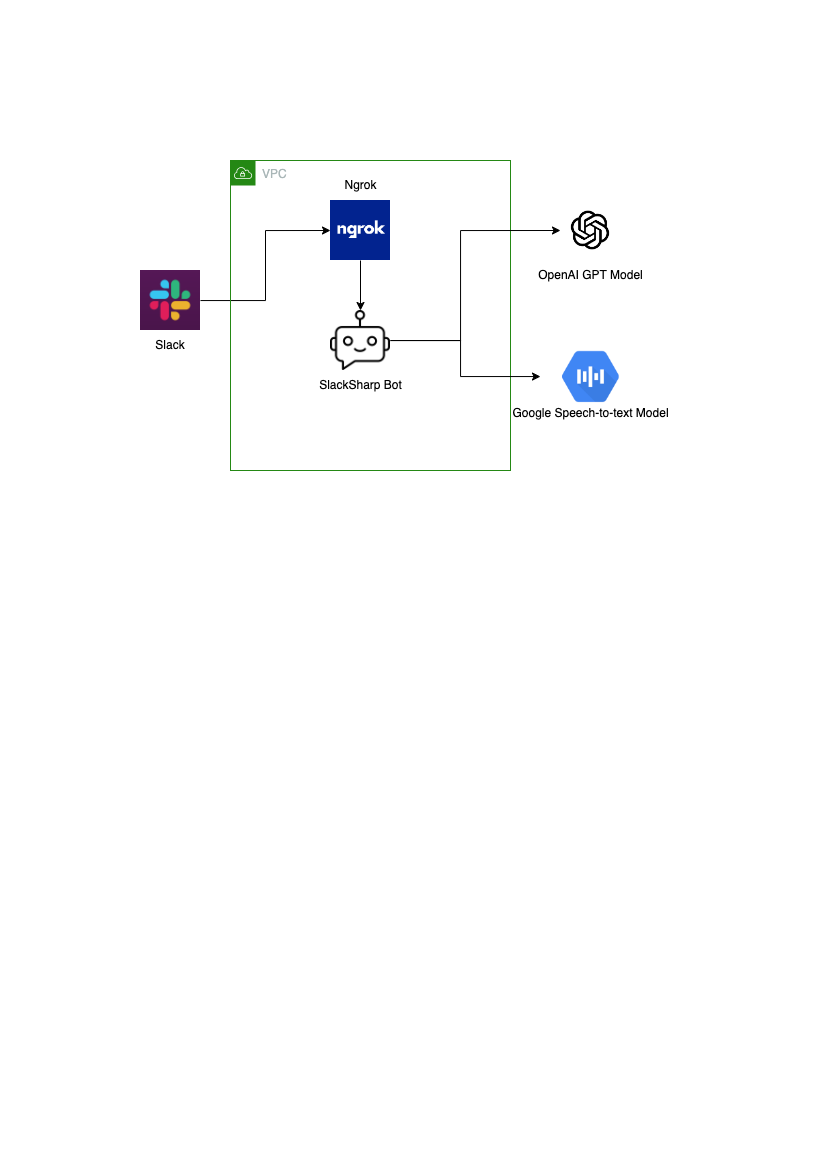
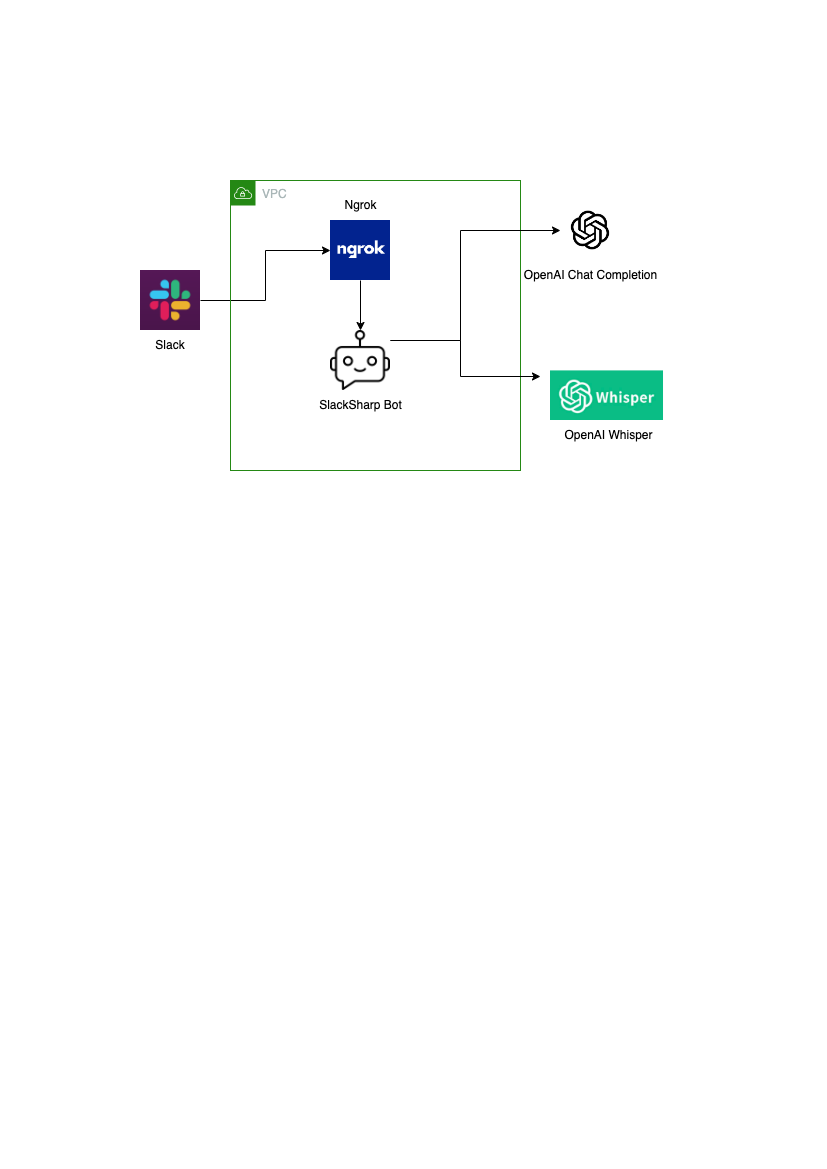
Updated architecture diagram.

diff --git a/README.md b/README.md
@@ -10,6 +10,12 @@ Follow the steps in [LOCAL_SETUP](./docs/LOCAL_SETUP.md) to setup the project lo
 ## Environment Variables
 Refer to [ENVIRONMENT_VARS](./docs/ENVIRONMENT_VARS.md) for detailed descriptions for the environment variables.
 
+## Architecture Diagram
+Refer to [ARCHITECTURE DIAGRAM](./docs/ARCHITECTURE_DIAGRAM.png) for the architecture diagram.
+
+## Sequence Diagram
+Refer to [SEQUENCE DIAGRAM](./docs/sequenceDiagrams/) for the sequence diagram.
+
 ## License
 This project is licensed under the MIT License. See the [LICENSE](LICENSE) file for details.
 
